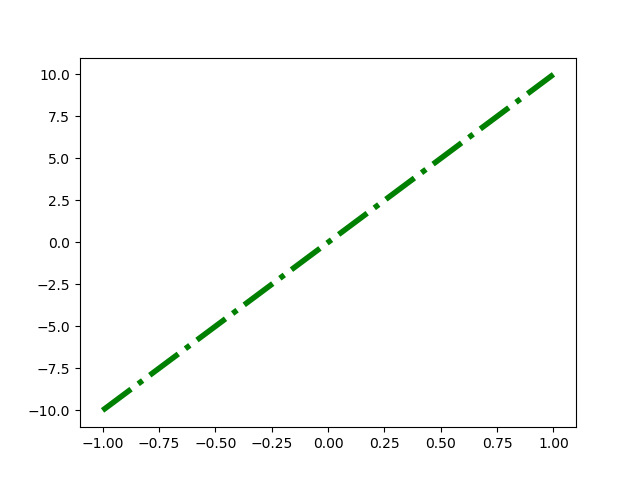
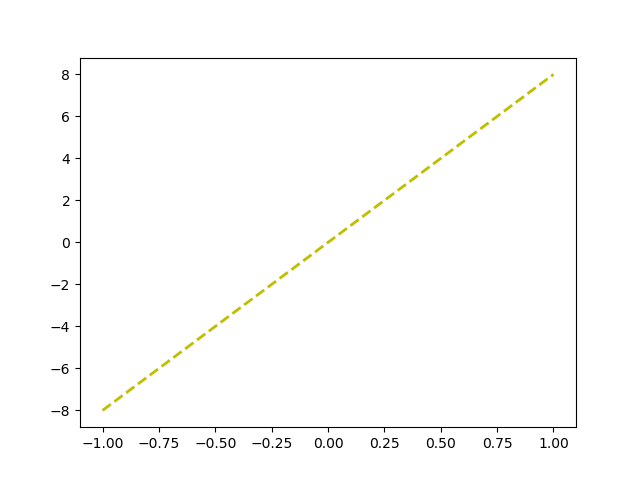
first commit

diff --git a/example.py b/example.py
@@ -2,7 +2,7 @@ import matplotlib.pyplot as plt
 import numpy as np
 
 x = np.linspace(-1, 1, 50)
-y = 10*x
+y = 8*x
 
-plt.plot(x, y,'g-.',linewidth=4)
+plt.plot(x, y,'y--',linewidth=2)
 plt.savefig('chart.png')

diff --git a/README.md b/README.md
@@ -1,6 +1,6 @@
-# Line Chart Vickie 
+# Line Chart Maria 
 
-Chart example for Python
+Example for my book (matplotlib, python)
 
 https://pythonprogramminglanguage.com
 
